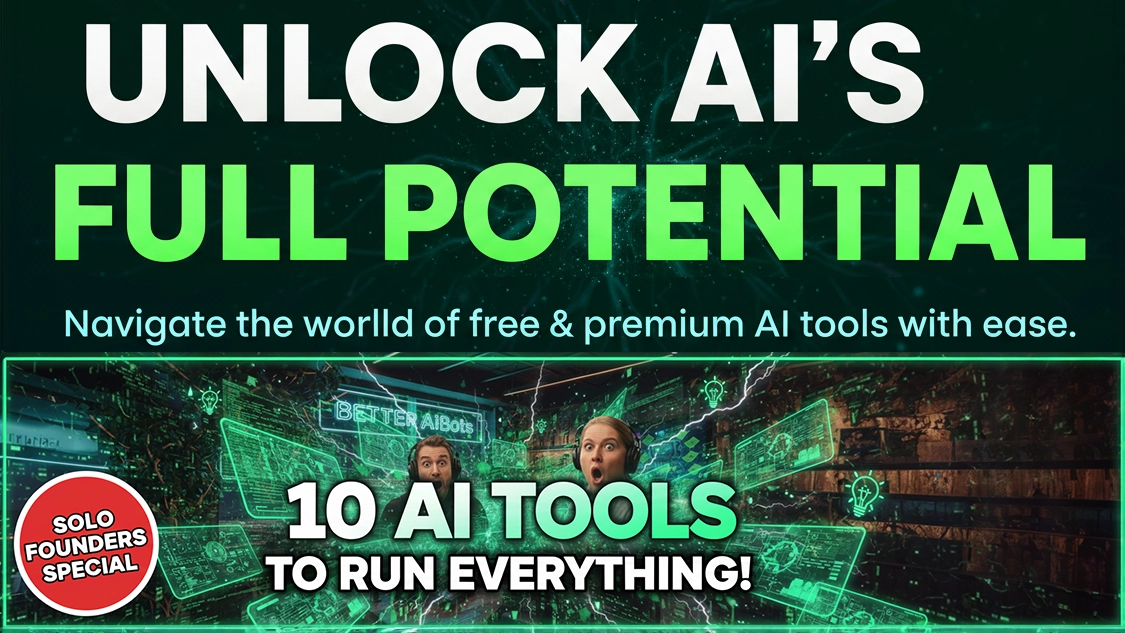
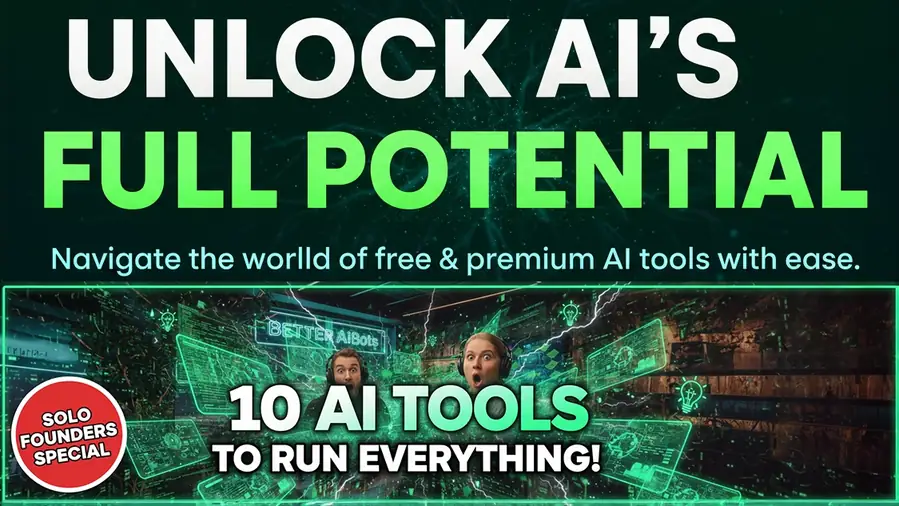
updated image sizes and links

diff --git a/src/theme/theme.css b/src/theme/theme.css
@@ -66,11 +66,11 @@
   --text-muted: #475569;
   --text-subtle: #64748b;
   --text-on-accent: #ffffff;
-  --accent: #0d9488;
-  --accent-secondary: #0891b2;
-  --accent-bright: #059669;
-  --accent-gradient: linear-gradient(135deg, #0d9488 0%, #0891b2 100%);
-  --accent-gradient-btn: linear-gradient(90deg, #059669 0%, #0891b2 100%);
+  --accent: #0f766e;
+  --accent-secondary: #0f5c56;
+  --accent-bright: #0f766e;
+  --accent-gradient: linear-gradient(135deg, #0f766e 0%, #0f5c56 100%);
+  --accent-gradient-btn: linear-gradient(90deg, #0f766e 0%, #0f5c56 100%);
   --brand-muted: #0f172a;
   --border-accent: #0d9488;
   --border-accent-soft: rgba(13, 148, 136, 0.35);
@@ -262,6 +262,10 @@
   font-size: 0.9rem;
   font-weight: 500;
   line-height: 24px;
+}
+
+[data-theme="light"] .site-ticker-text {
+  color: #0f5c56 !important;
 }
 
 .site-nav-shell {
@@ -790,12 +794,22 @@
   background: #ffffff;
   border-color: #e2e8f0;
   box-shadow: 0 2px 12px rgba(15, 23, 42, 0.06);
+  color: #334155;
 }
 
 [data-theme="light"] .theme-panel-card:hover {
   border-color: var(--border-accent-soft);
   box-shadow: 0 6px 20px rgba(15, 23, 42, 0.08);
   transform: translateY(-2px);
+}
+
+[data-theme="light"] .theme-panel-card h3 {
+  color: #0f5c56 !important;
+}
+
+[data-theme="light"] .theme-panel-card p,
+[data-theme="light"] .theme-panel-card div {
+  color: #334155;
 }
 
 [data-theme="light"] .theme-promo-panel {
@@ -2031,7 +2045,7 @@
 }
 
 [data-theme="light"] .site-footer h3 {
-  color: #0d9488 !important;
+  color: #0f5c56 !important;
 }
 
 [data-theme="light"] .site-footer .site-footer__link {
@@ -2062,12 +2076,12 @@
 
 [data-theme="light"] .site-footer .site-footer__legal-link {
   background: none !important;
-  -webkit-text-fill-color: #0d9488 !important;
-  color: #0d9488 !important;
+  -webkit-text-fill-color: #0f5c56 !important;
+  color: #0f5c56 !important;
 }
 
 [data-theme="light"] .site-footer .site-footer__brand-link {
-  color: #0f766e !important;
+  color: #0f5c56 !important;
 }
 
 .site-footer__brand-logo {

diff --git a/src/Articles.js b/src/Articles.js
@@ -3491,9 +3491,9 @@ If you're looking for a video editing platform that combines ease of use with po
     id: "elevate-forward",
     title: "AI Strategy & Execution Platform: Diagnostics, Planning, and Initiative Tracking",
     date: "May 2026",
-    cover: "/elevateforward.png",
+    cover: "/elevateforward.webp",
     preview: "",
-    images: ["/elevateforward.png"],
+    images: ["/elevateforward.webp"],
     content: `
 ## ElevateForward Review: AI Strategy and Execution Platform for Growing Businesses
 

diff --git a/src/data/appsData.js b/src/data/appsData.js
@@ -759,7 +759,7 @@ export const trialAppsData = [
     features: ["Elevate Insight Reports", "Elevate Studio strategy hub", "KPI & initiative tracking", "90-day roadmap builder", "Cross-report intelligence", "Team alignment tools"],
     link: "https://partners.elevateforward.ai/iy1986n6gbz4",
     trialInfo: "Try for Free",
-    image: "/elevateforward.png",
+    image: "/elevateforward.webp",
     readMoreLink: "/learn/elevate-forward"
   }
 ];
